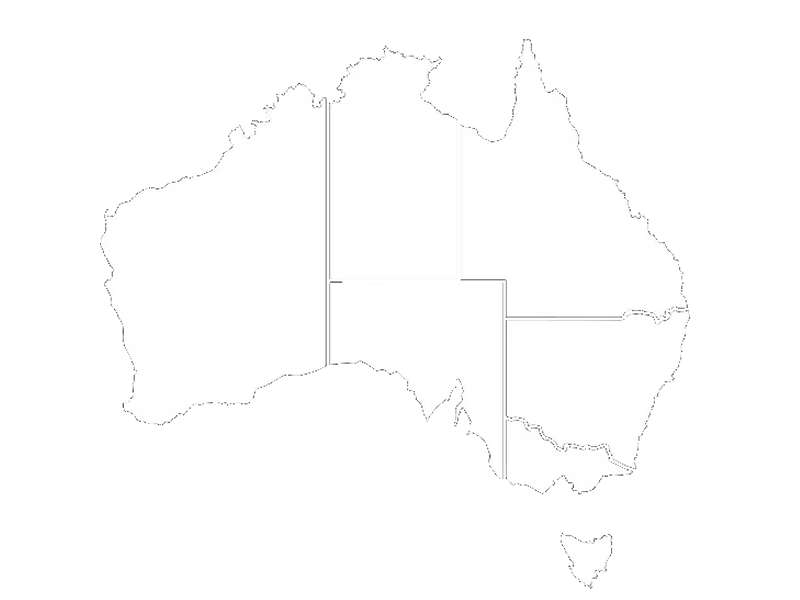
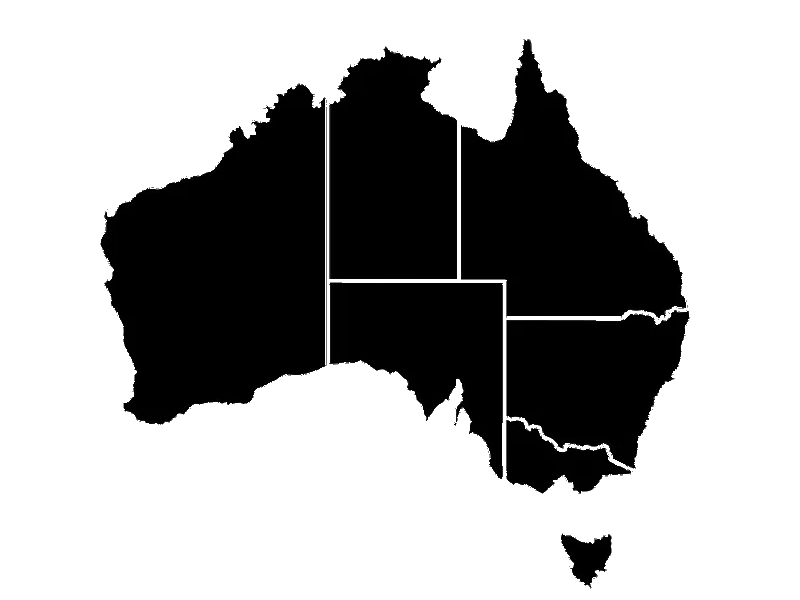
profile masks now work on stencils and with video!

diff --git a/Compositor/Drawer.cs b/Compositor/Drawer.cs
@@ -1,13 +1,13 @@
- using System;
-using System.Collections.Generic;
+using Composition.Text;
 using Microsoft.Xna.Framework;
+using Microsoft.Xna.Framework.Graphics;
+ using System;
+using System.Collections.Generic;
 using System.Linq;
 using System.Text;
-using System.Threading.Tasks;
-using Microsoft.Xna.Framework.Graphics;
-using Tools;
 using System.Threading;
-using Composition.Text;
+using System.Threading.Tasks;
+using Tools;
 
 namespace Composition
 {
@@ -159,6 +159,43 @@ namespace Composition
             DrawLine(tr, br, color, thickness);
             DrawLine(br, bl, color, thickness);
             DrawLine(bl, tl, color, thickness);
+        }
+
+        public void DrawMasked(Texture2D texture, Rectangle src, Texture2D mask, Rectangle maskSrc, Rectangle dest, Color tint)
+        {
+            SpriteBatch.End();
+
+            GraphicsDevice.Clear(ClearOptions.Stencil, Color.Transparent, 0, 0);
+            Matrix m = Matrix.CreateOrthographicOffCenter(0, GraphicsDevice.PresentationParameters.BackBufferWidth, GraphicsDevice.PresentationParameters.BackBufferHeight, 0, 0, 1);
+            AlphaTestEffect a1 = new AlphaTestEffect(GraphicsDevice)
+            {
+                Projection = m
+            };
+            DepthStencilState s1 = new DepthStencilState
+            {
+                StencilEnable = true,
+                StencilFunction = CompareFunction.Always,
+                StencilPass = StencilOperation.Replace,
+                ReferenceStencil = 1,
+                DepthBufferEnable = false,
+            };
+            DepthStencilState s2 = new DepthStencilState
+            {
+                StencilEnable = true,
+                StencilFunction = CompareFunction.LessEqual,
+                StencilPass = StencilOperation.Keep,
+                ReferenceStencil = 1,
+                DepthBufferEnable = false,
+            };
+            SpriteBatch.Begin(SpriteSortMode.Immediate, null, null, s1, null, a1);
+            SpriteBatch.Draw(mask, dest, maskSrc, tint); 
+            SpriteBatch.End();
+
+            SpriteBatch.Begin(SpriteSortMode.Immediate, null, null, s2, null, a1);
+            SpriteBatch.Draw(texture, dest, src, tint);
+            SpriteBatch.End();
+
+            SpriteBatch.Begin(SpriteSortMode.Deferred, blendState, SamplerState.AnisotropicClamp, null, null, null, null);
         }
 
         public void PushClipRectangle(Rectangle clip)

diff --git a/UI/Nodes/PilotProfileNode.cs b/UI/Nodes/PilotProfileNode.cs
@@ -129,7 +129,8 @@ namespace UI.Nodes
                     string[] imageFileTypes = new[] { ".png", ".jpg", ".jpeg" };
 
                     string maskFilename = "";
-                    if (Theme.Current != null && Theme.Current.PilotProfileMask != null)
+                    float maskSecondDrawAlpha = ApplicationProfileSettings.Instance.PilotProfileMaskAlpha;
+                    if (ApplicationProfileSettings.Instance.PilotProfileMask && Theme.Current != null && Theme.Current.PilotProfileMask != null)
                     {
                         maskFilename = Theme.Current.PilotProfileMask.TextureFilename;
                     }
@@ -150,7 +151,14 @@ namespace UI.Nodes
 
                         source.BounceRepeat = ApplicationProfileSettings.Instance.PilotProfileBoomerangRepeat;
 
-                        videoPlayer = new FileFrameNode(source);
+                        if (string.IsNullOrEmpty(maskFilename))
+                        {
+                            videoPlayer = new FileFrameNode(source);
+                        }
+                        else
+                        {
+                            videoPlayer = new FileFrameMaskedNode(source, maskFilename, maskSecondDrawAlpha);
+                        }
 
                         videoPlayer.Repeat = true;
                         videoPlayer.Play();
@@ -160,7 +168,15 @@ namespace UI.Nodes
                     }
                     else if (imageFileTypes.Contains(fileInfo.Extension))
                     {
-                        PilotPhoto = new ImageMaskedNode(fileInfo.FullName, maskFilename);
+                        if (string.IsNullOrEmpty(maskFilename))
+                        {
+                            PilotPhoto = new ImageNode(fileInfo.FullName);
+                        }
+                        else
+                        {
+                            PilotPhoto = new ImageMaskedNode(fileInfo.FullName, maskFilename, maskSecondDrawAlpha);
+                        }
+
                         insideOutBorderRelativeNode.AddChild(PilotPhoto, 0);
                     }
 

diff --git a/UI/Video/FileFrameMaskedNode.cs b/UI/Video/FileFrameMaskedNode.cs
@@ -1,5 +1,9 @@
-using Microsoft.Xna.Framework;
+using Composition;
+using Composition.Nodes;
+using ImageServer;
+using Microsoft.Xna.Framework;
 using Microsoft.Xna.Framework.Graphics;
+using Microsoft.Xna.Framework.Graphics.PackedVector;
 using System;
 using System.Collections.Generic;
 using System.IO;
@@ -8,23 +12,20 @@ using System.Text;
 using System.Threading.Tasks;
 using Tools;
 
-namespace Composition.Nodes
+namespace UI.Video
 {
-    public class ImageMaskedNode : ImageNode
+    public class FileFrameMaskedNode : FileFrameNode
     {
         public string MaskFilename { get; private set; }
         public Texture2D MaskTexture { get; private set; }
         public Rectangle MaskSourceBounds { get; private set; }
-
         public float SecondDrawAlpha { get; private set; }
 
-        public ImageMaskedNode(string imageFilename, string maskFilename, float secondDrawAlpha)
-            : base(imageFilename)
+        public FileFrameMaskedNode(FrameSource s, string maskFilename, float secondDrawAlpha) : base(s)
         {
-            SecondDrawAlpha = secondDrawAlpha;
             MaskFilename = maskFilename;
+            SecondDrawAlpha = secondDrawAlpha;
         }
-
 
         public override void LoadImage(Drawer id)
         {
@@ -34,7 +35,7 @@ namespace Composition.Nodes
                 return;
 
             MaskTexture = id.TextureCache.GetTextureFromFilename(MaskFilename, Color.White, false, false);
-            MaskSourceBounds = new Rectangle(0,0, MaskTexture.Width, MaskTexture.Height);
+            MaskSourceBounds = new Rectangle(0, 0, MaskTexture.Width, MaskTexture.Height);
         }
 
         public override void Draw(Drawer id, float parentAlpha)

diff --git a/ImageServer/CachedTextureFrameSource.cs b/ImageServer/CachedTextureFrameSource.cs
@@ -78,16 +78,19 @@ namespace ImageServer
         private TimeSpan length;
 
         private FrameSource frameSource;
-        private GraphicsDevice graphicsDevice;
 
         private IPlaybackFrameSource playbackFrameSource { get { return frameSource as IPlaybackFrameSource; } }
-        
+
         public CachedTextureFrameSource(GraphicsDevice graphicsDevice, VideoFrameWork videoFrameWork, string filename)
             :base(new VideoConfig())
         {
             samples = new List<FrameTextureSample>();
             frameSource = videoFrameWork.CreateFrameSource(filename);
-            this.graphicsDevice = graphicsDevice;
+
+            if (frameSource != null && samples.Count == 0)
+            {
+                CopyFrameSource(graphicsDevice, frameSource);
+            }
         }
 
         public override void Dispose()
@@ -107,7 +110,7 @@ namespace ImageServer
             samples.Clear();
         }
 
-        private void CopyFrameSource(FrameSource frameSource)
+        private void CopyFrameSource(GraphicsDevice graphicsDevice, FrameSource frameSource)
         {
             int count = 0;
 
@@ -153,11 +156,6 @@ namespace ImageServer
 
         private void PlayBackThread()
         {
-            if (frameSource != null && samples.Count == 0)
-            {
-                CopyFrameSource(frameSource);
-            }
-
             int count = 0;
             while (State == States.Running)
             {

diff --git a/UI/ApplicationProfileSettings.cs b/UI/ApplicationProfileSettings.cs
@@ -265,6 +265,14 @@ namespace UI
         [NeedsRestart]
         public int PilotProfileHoldLengthSeconds { get; set; }
 
+        [Category("Pilot Profile")]
+        [NeedsRestart]
+        public bool PilotProfileMask { get; set; }
+
+        [Category("Pilot Profile")]
+        [NeedsRestart]
+        public float PilotProfileMaskAlpha { get; set; }
+
         [Browsable(false)]
         public string Language { get; set; }
 
@@ -350,6 +358,8 @@ namespace UI
             ShowPositionDeltaTime = 6;
             Language = "English";
             ShowDownPilotLapTimes = true;
+            PilotProfileMask = true;
+            PilotProfileMaskAlpha = 0.6f;
         }
 
         protected const string filename = "ProfileSettings.xml";

diff --git a/Compositor/Nodes/ImageNode.cs b/Compositor/Nodes/ImageNode.cs
@@ -110,7 +110,7 @@ namespace Composition.Nodes
             return bounds;
         }
 
-        public void UpdateAspectRatioFromTexture()
+        public virtual void UpdateAspectRatioFromTexture()
         {
             if (Texture != null)
             {
